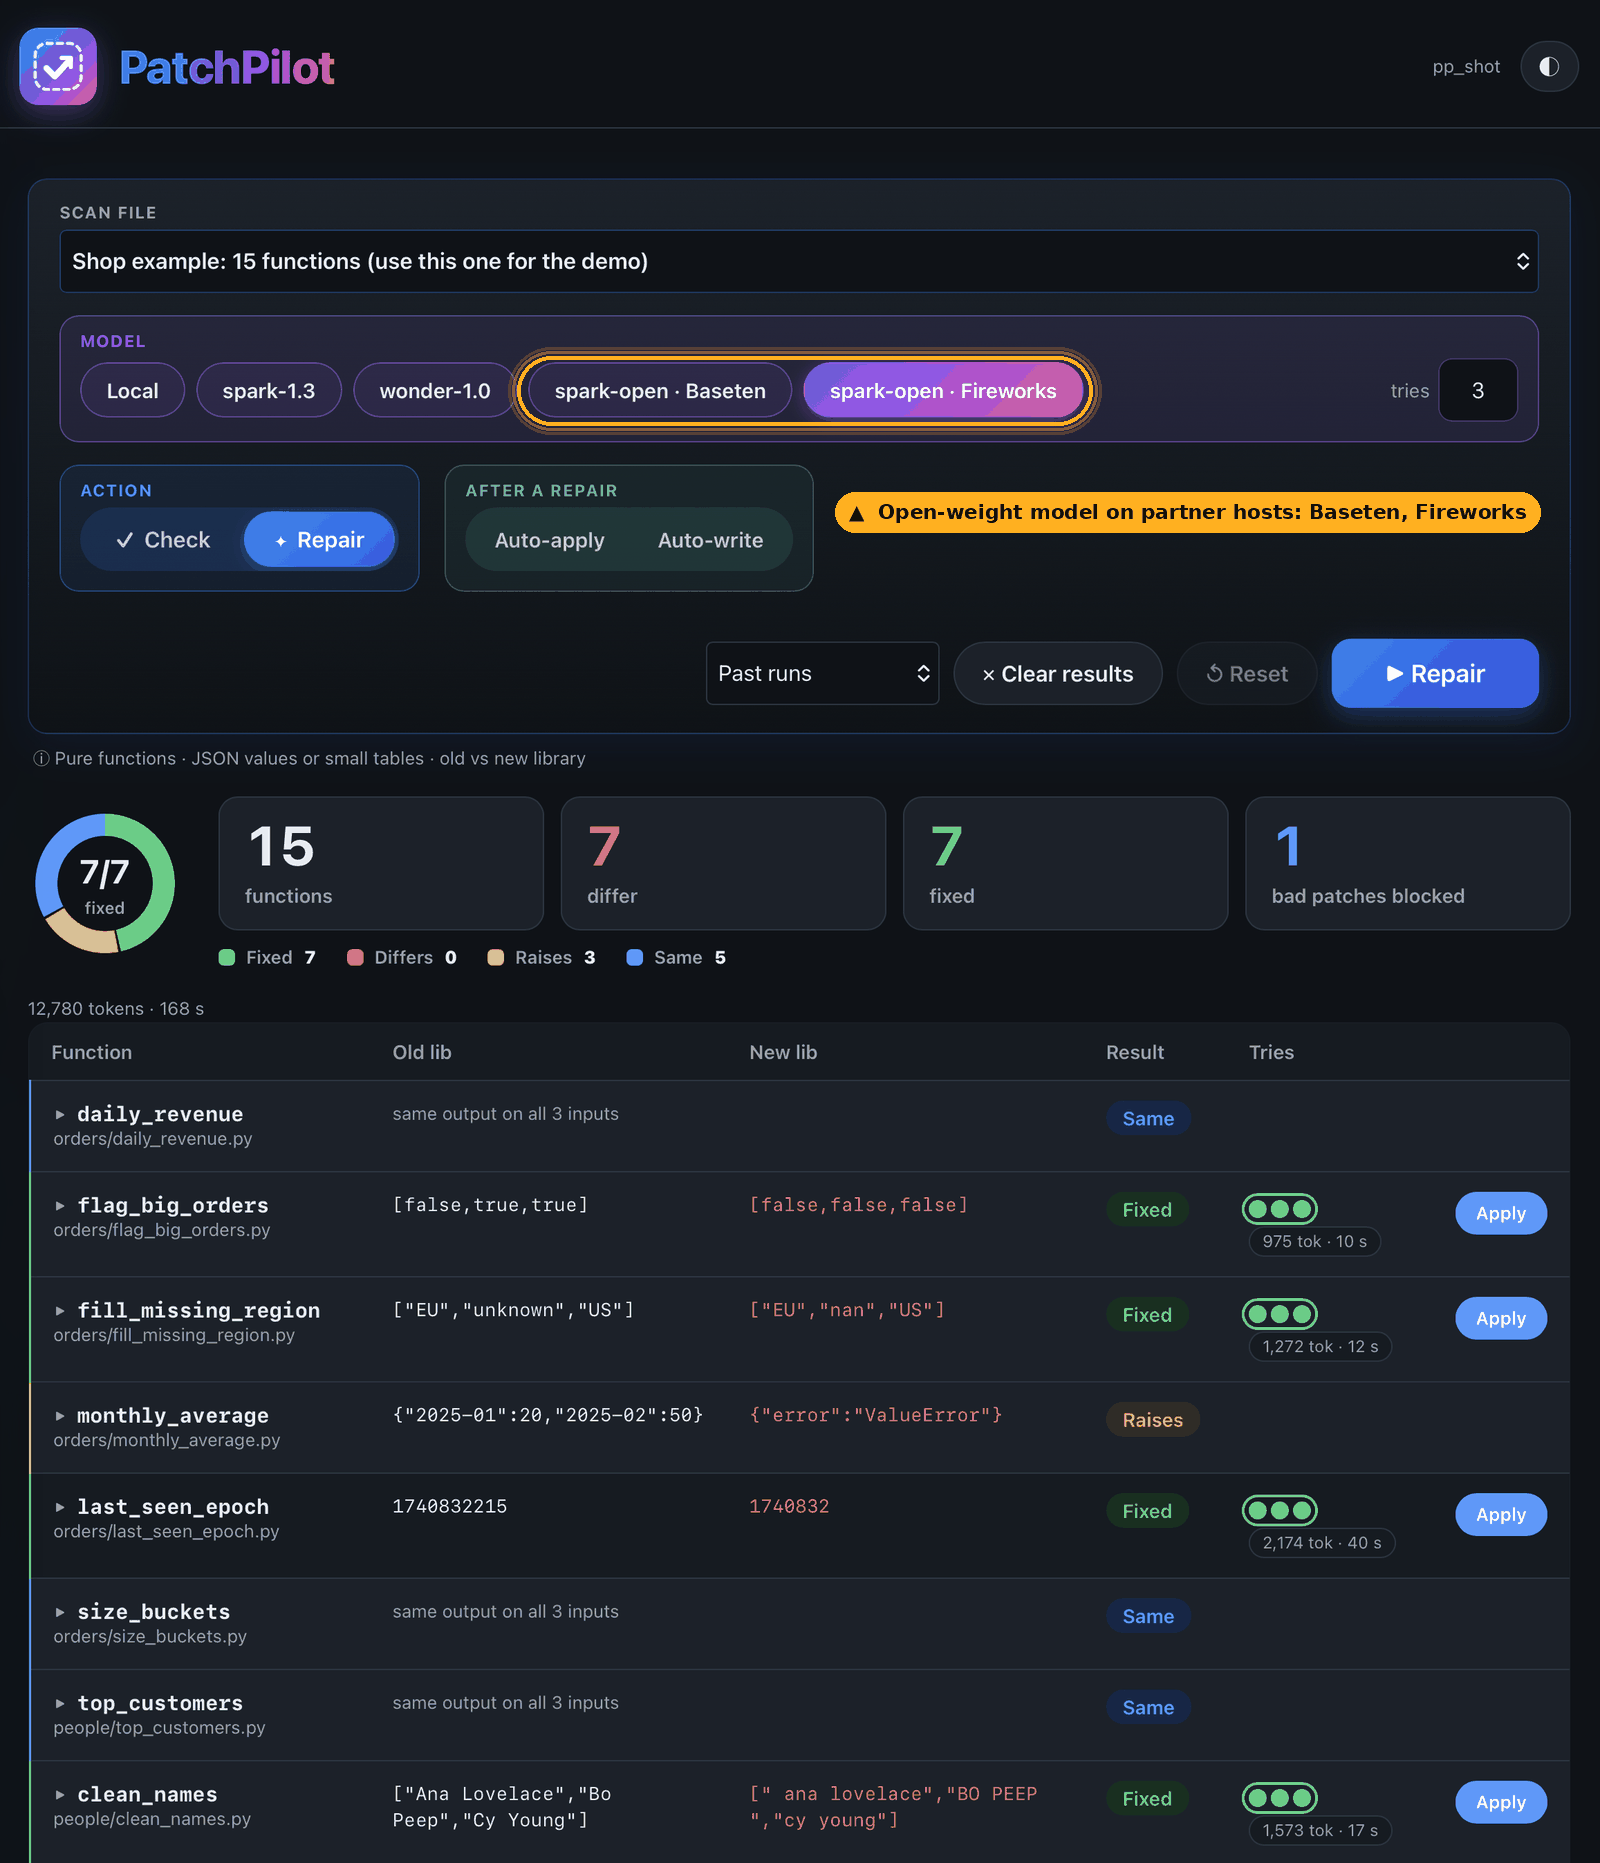
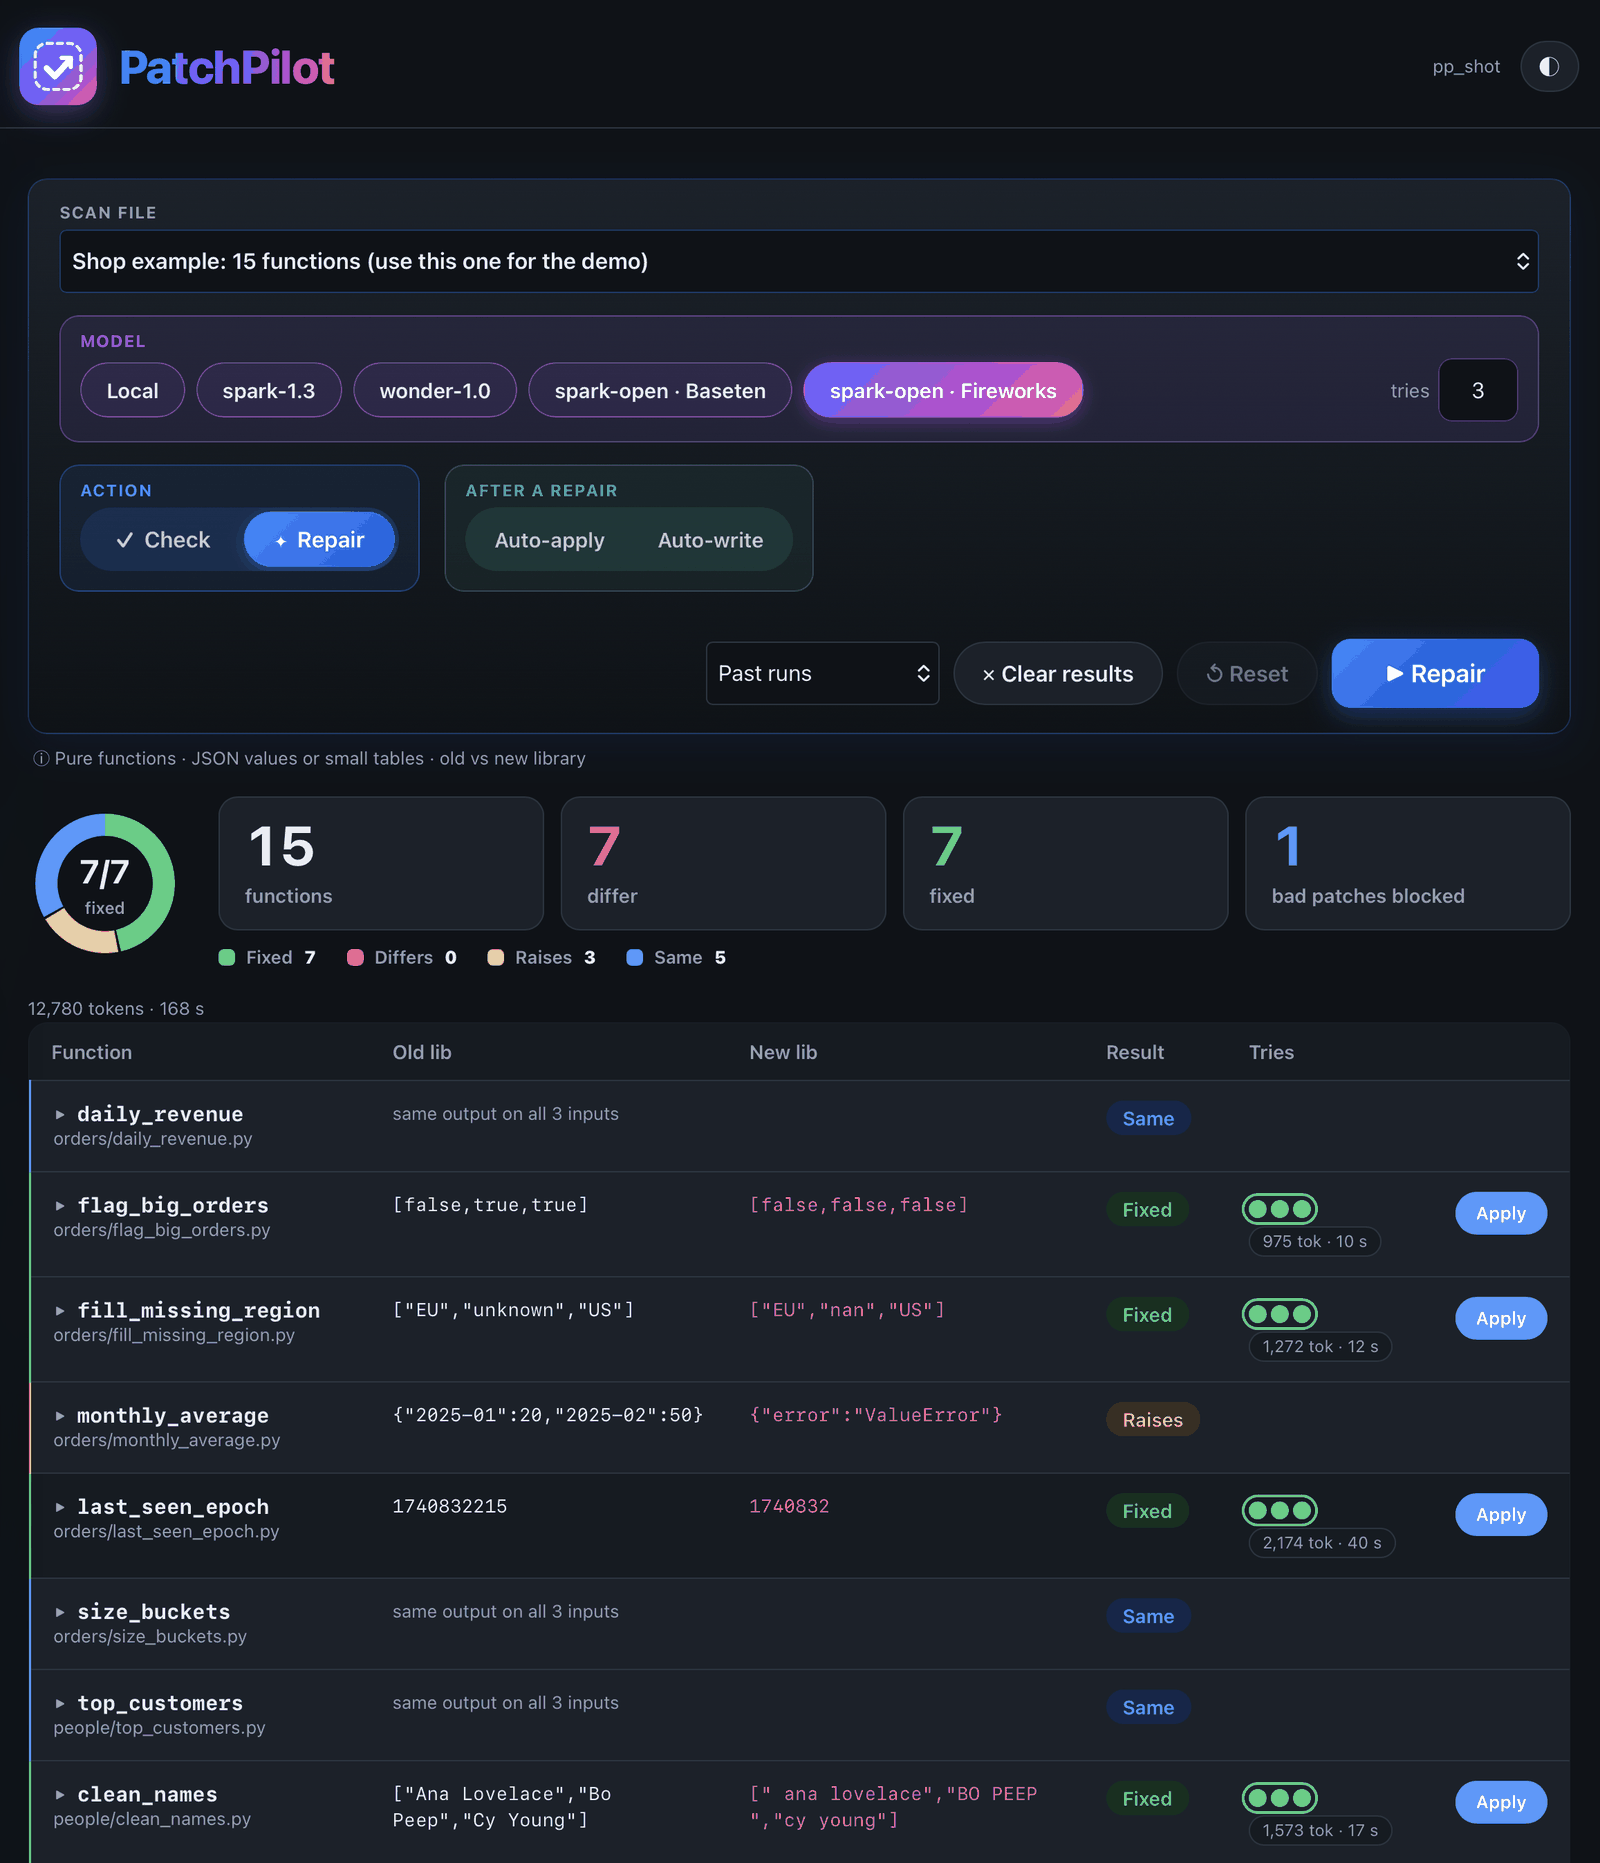
README: plain screenshot without annotation, caption

Changed region(s): [[0.3125, 0.1868, 0.9688, 0.3113], [0.0, 0.0, 0.0625, 0.0623], [0.0938, 0.0311, 0.1562, 0.0623]]

diff --git a/README.md b/README.md
@@ -4,9 +4,9 @@
 
 Finds Python functions that silently return different results after a library upgrade (pandas 2.3 to 3.0, NumPy 1.26 to 2.x), repairs them with a Meta model, and writes a patch only if three gates agree. A local browser app runs the whole thing; the model can be the open-weight Muse Glimmer on your own machine.
 
-![PatchPilot app after a repair run on the 15-function shop set: Muse Spark Open on Fireworks, 7 of 7 fixed, one bad patch blocked; the two partner-host model chips are outlined](docs/img/app-done.png)
+![PatchPilot app after a repair run on the 15-function shop set: Muse Spark Open on Fireworks, 7 of 7 fixed, one bad patch blocked](docs/img/app-done.png)
 
-*The app after one run on the shop set with Muse Spark Open hosted on Fireworks: 7 of 7 repaired, one patch rejected by the gates, 12,780 tokens, 168 s. One run, not a rate. The orange outline and label were added to the screenshot; the model chips name the two partner hosts, Baseten and Fireworks. Run records of two other runs of the same model: `examples/shop_result_spark_open_fireworks/` and `examples/shop_result_spark_open_fireworks_run2/`.*
+*The app after one run on the shop set with Muse Spark Open hosted on Fireworks: 7 of 7 repaired, one patch rejected by the gates, 12,780 tokens, 168 s. One run, not a rate. The model chips name the two partner hosts, Baseten and Fireworks. Run records of two other runs of the same model: `examples/shop_result_spark_open_fireworks/` and `examples/shop_result_spark_open_fireworks_run2/`.*
 
 Meta Global AI Developer Hackathon (Oct 26 to Nov 4, 2026). Track: Indie Developer. Problem statement: Push the Frontier (software). Solo entry. The repository was created on 2026-10-27 (first commit after the kickoff) and holds only work from the event. License: PolyForm Strict 1.0.0 (`LICENSE`), public repository; the organizers confirmed that this meets the rules.
 

diff --git a/docs/DETAILS.md b/docs/DETAILS.md
@@ -6,7 +6,7 @@ Finds Python functions that silently return different results after a library up
 
 ![PatchPilot app after a repair run on the 15-function shop set](docs/img/app-done.png)
 
-*One run with Muse Spark Open hosted on Fireworks: 7 of 7 repaired, one patch rejected by the gates, 12,780 tokens, 168 s. The orange outline was added to the screenshot.*
+*One run with Muse Spark Open hosted on Fireworks: 7 of 7 repaired, one patch rejected by the gates, 12,780 tokens, 168 s.*
 
 *Recorded run (run 2 of three) on `examples/shop/` (15 functions we wrote): 5 unaffected, 3 fail loudly, 7 differ silently; all 7 repaired on the first attempt with local Muse Glimmer, 8,651 tokens, 225 s (`examples/shop_result_run2/`). The same model failed one of the seven in an earlier run on the same set (`examples/shop_result/`): three runs on this set show variation, not a rate (run 3: 7/7 as well, but three patches were rejected by the gates on the way: `examples/shop_result_run3/`).*
 
